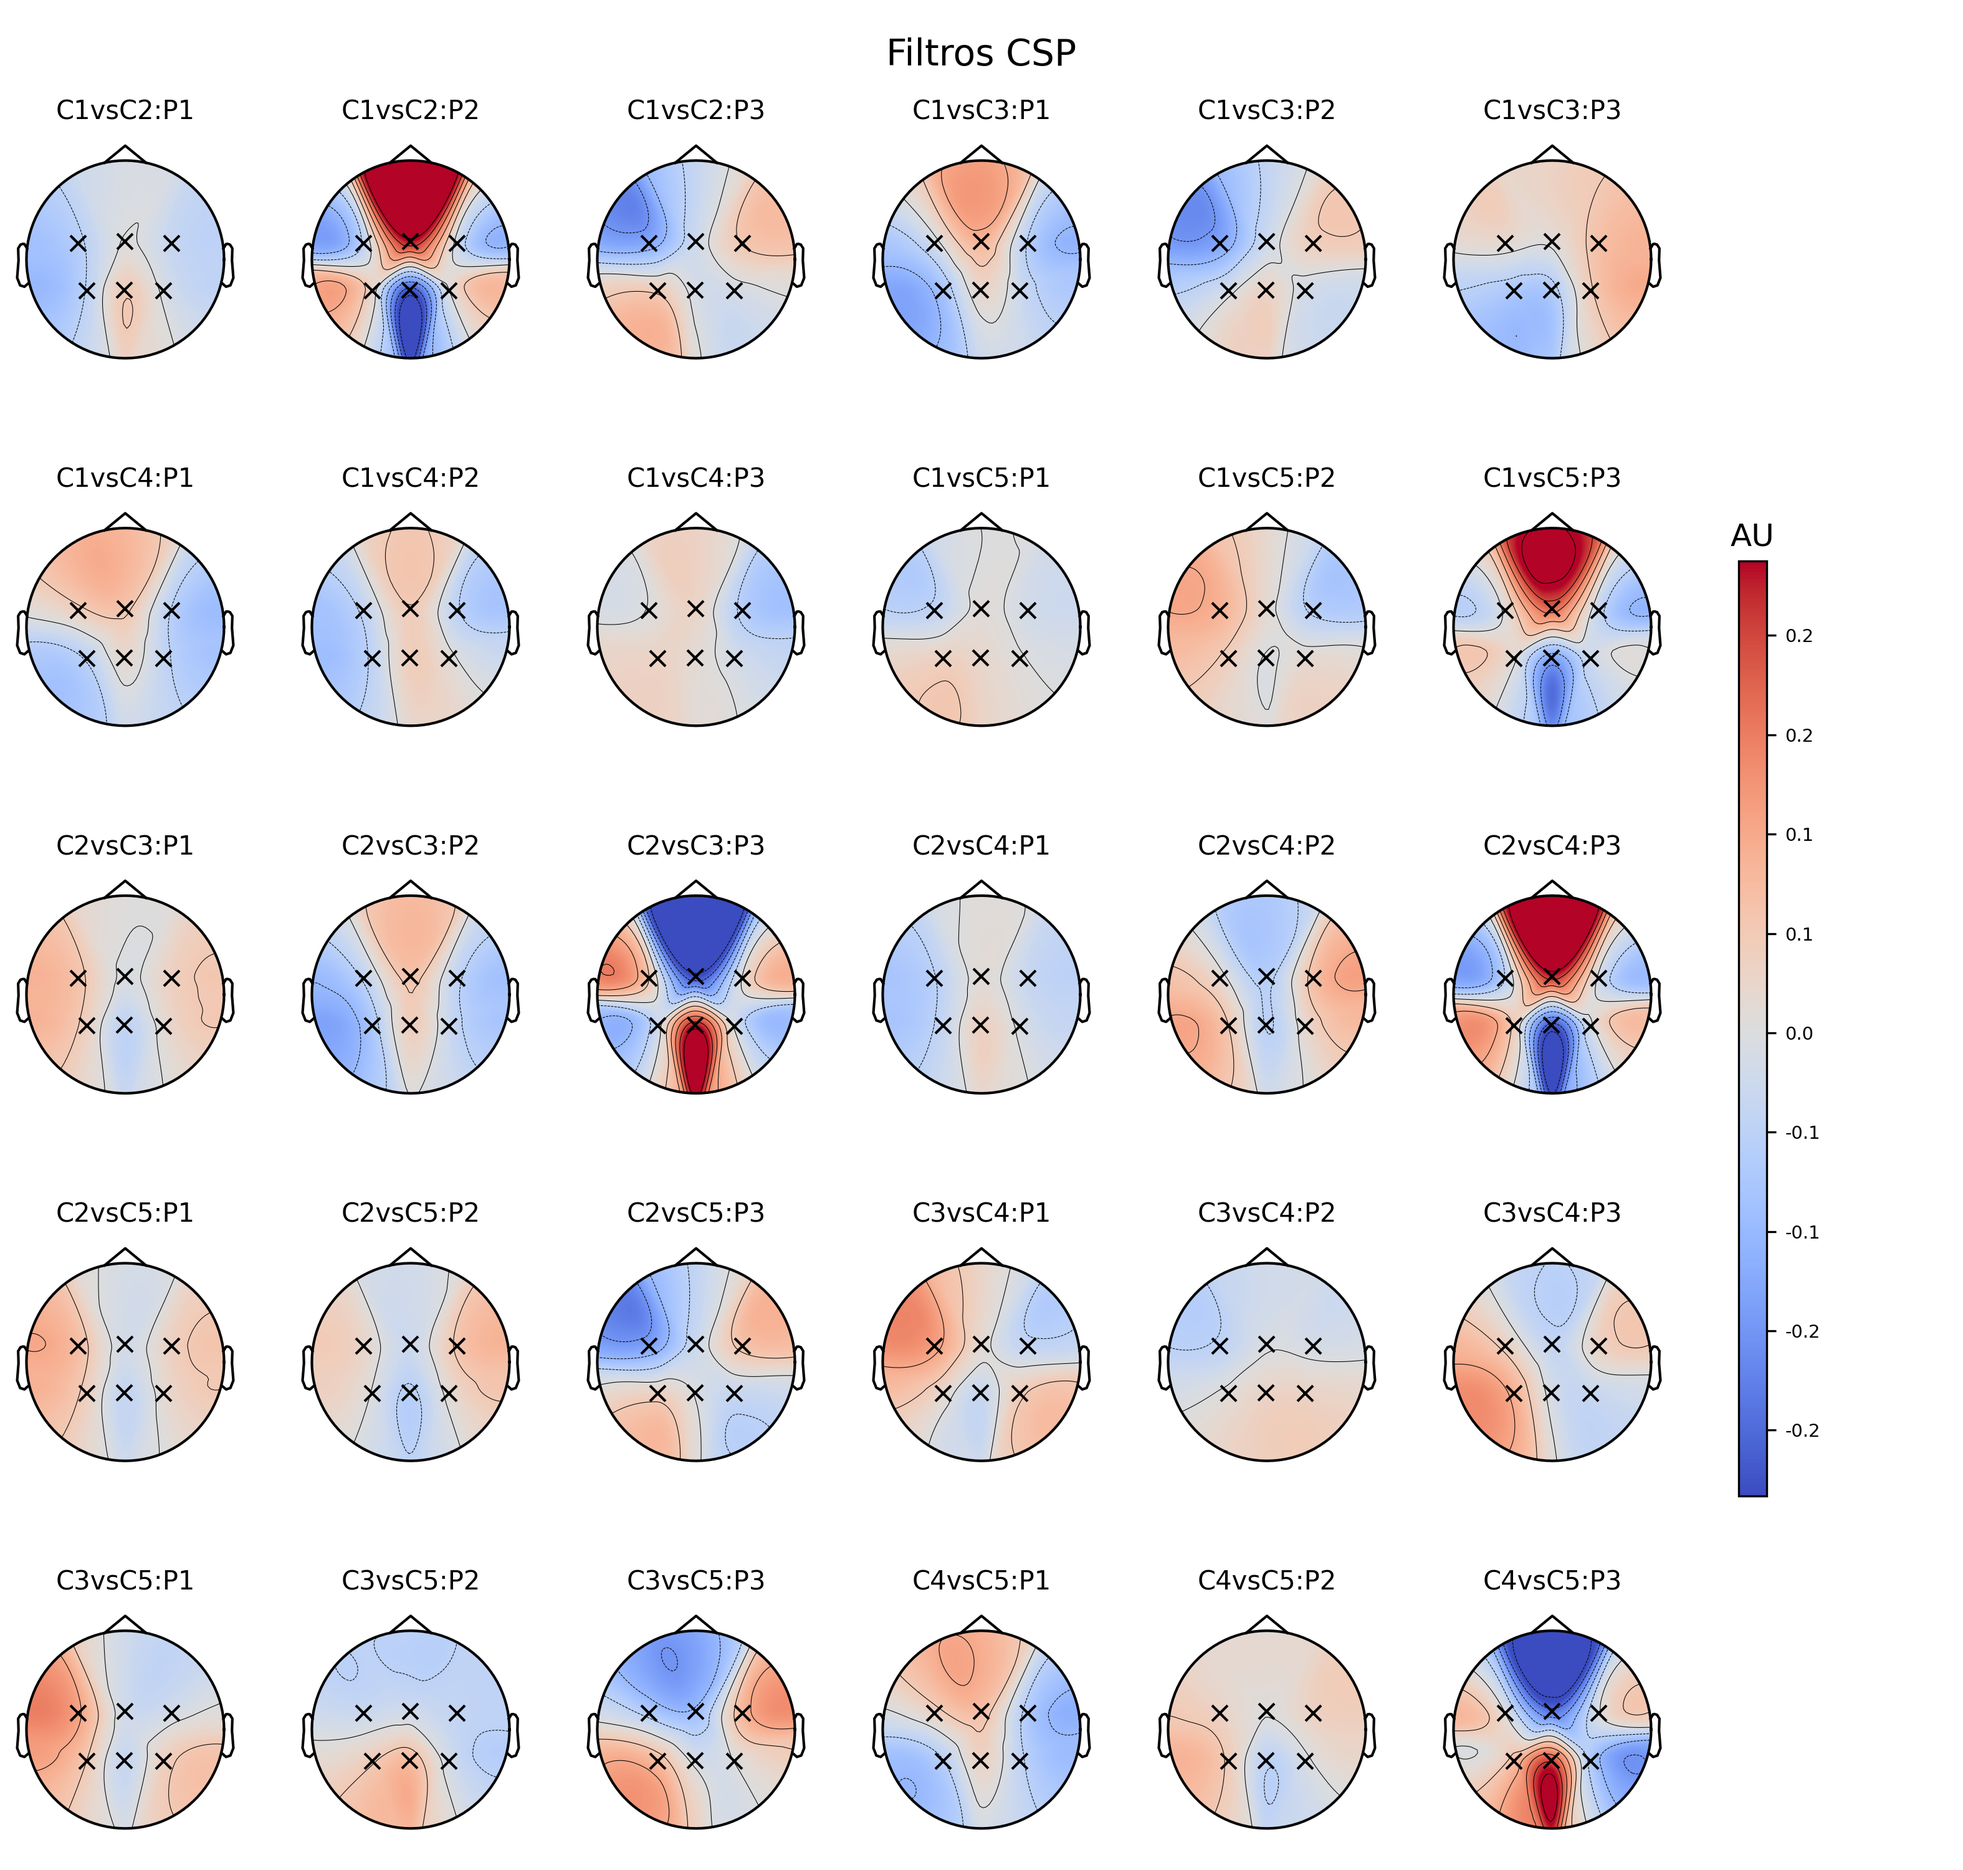
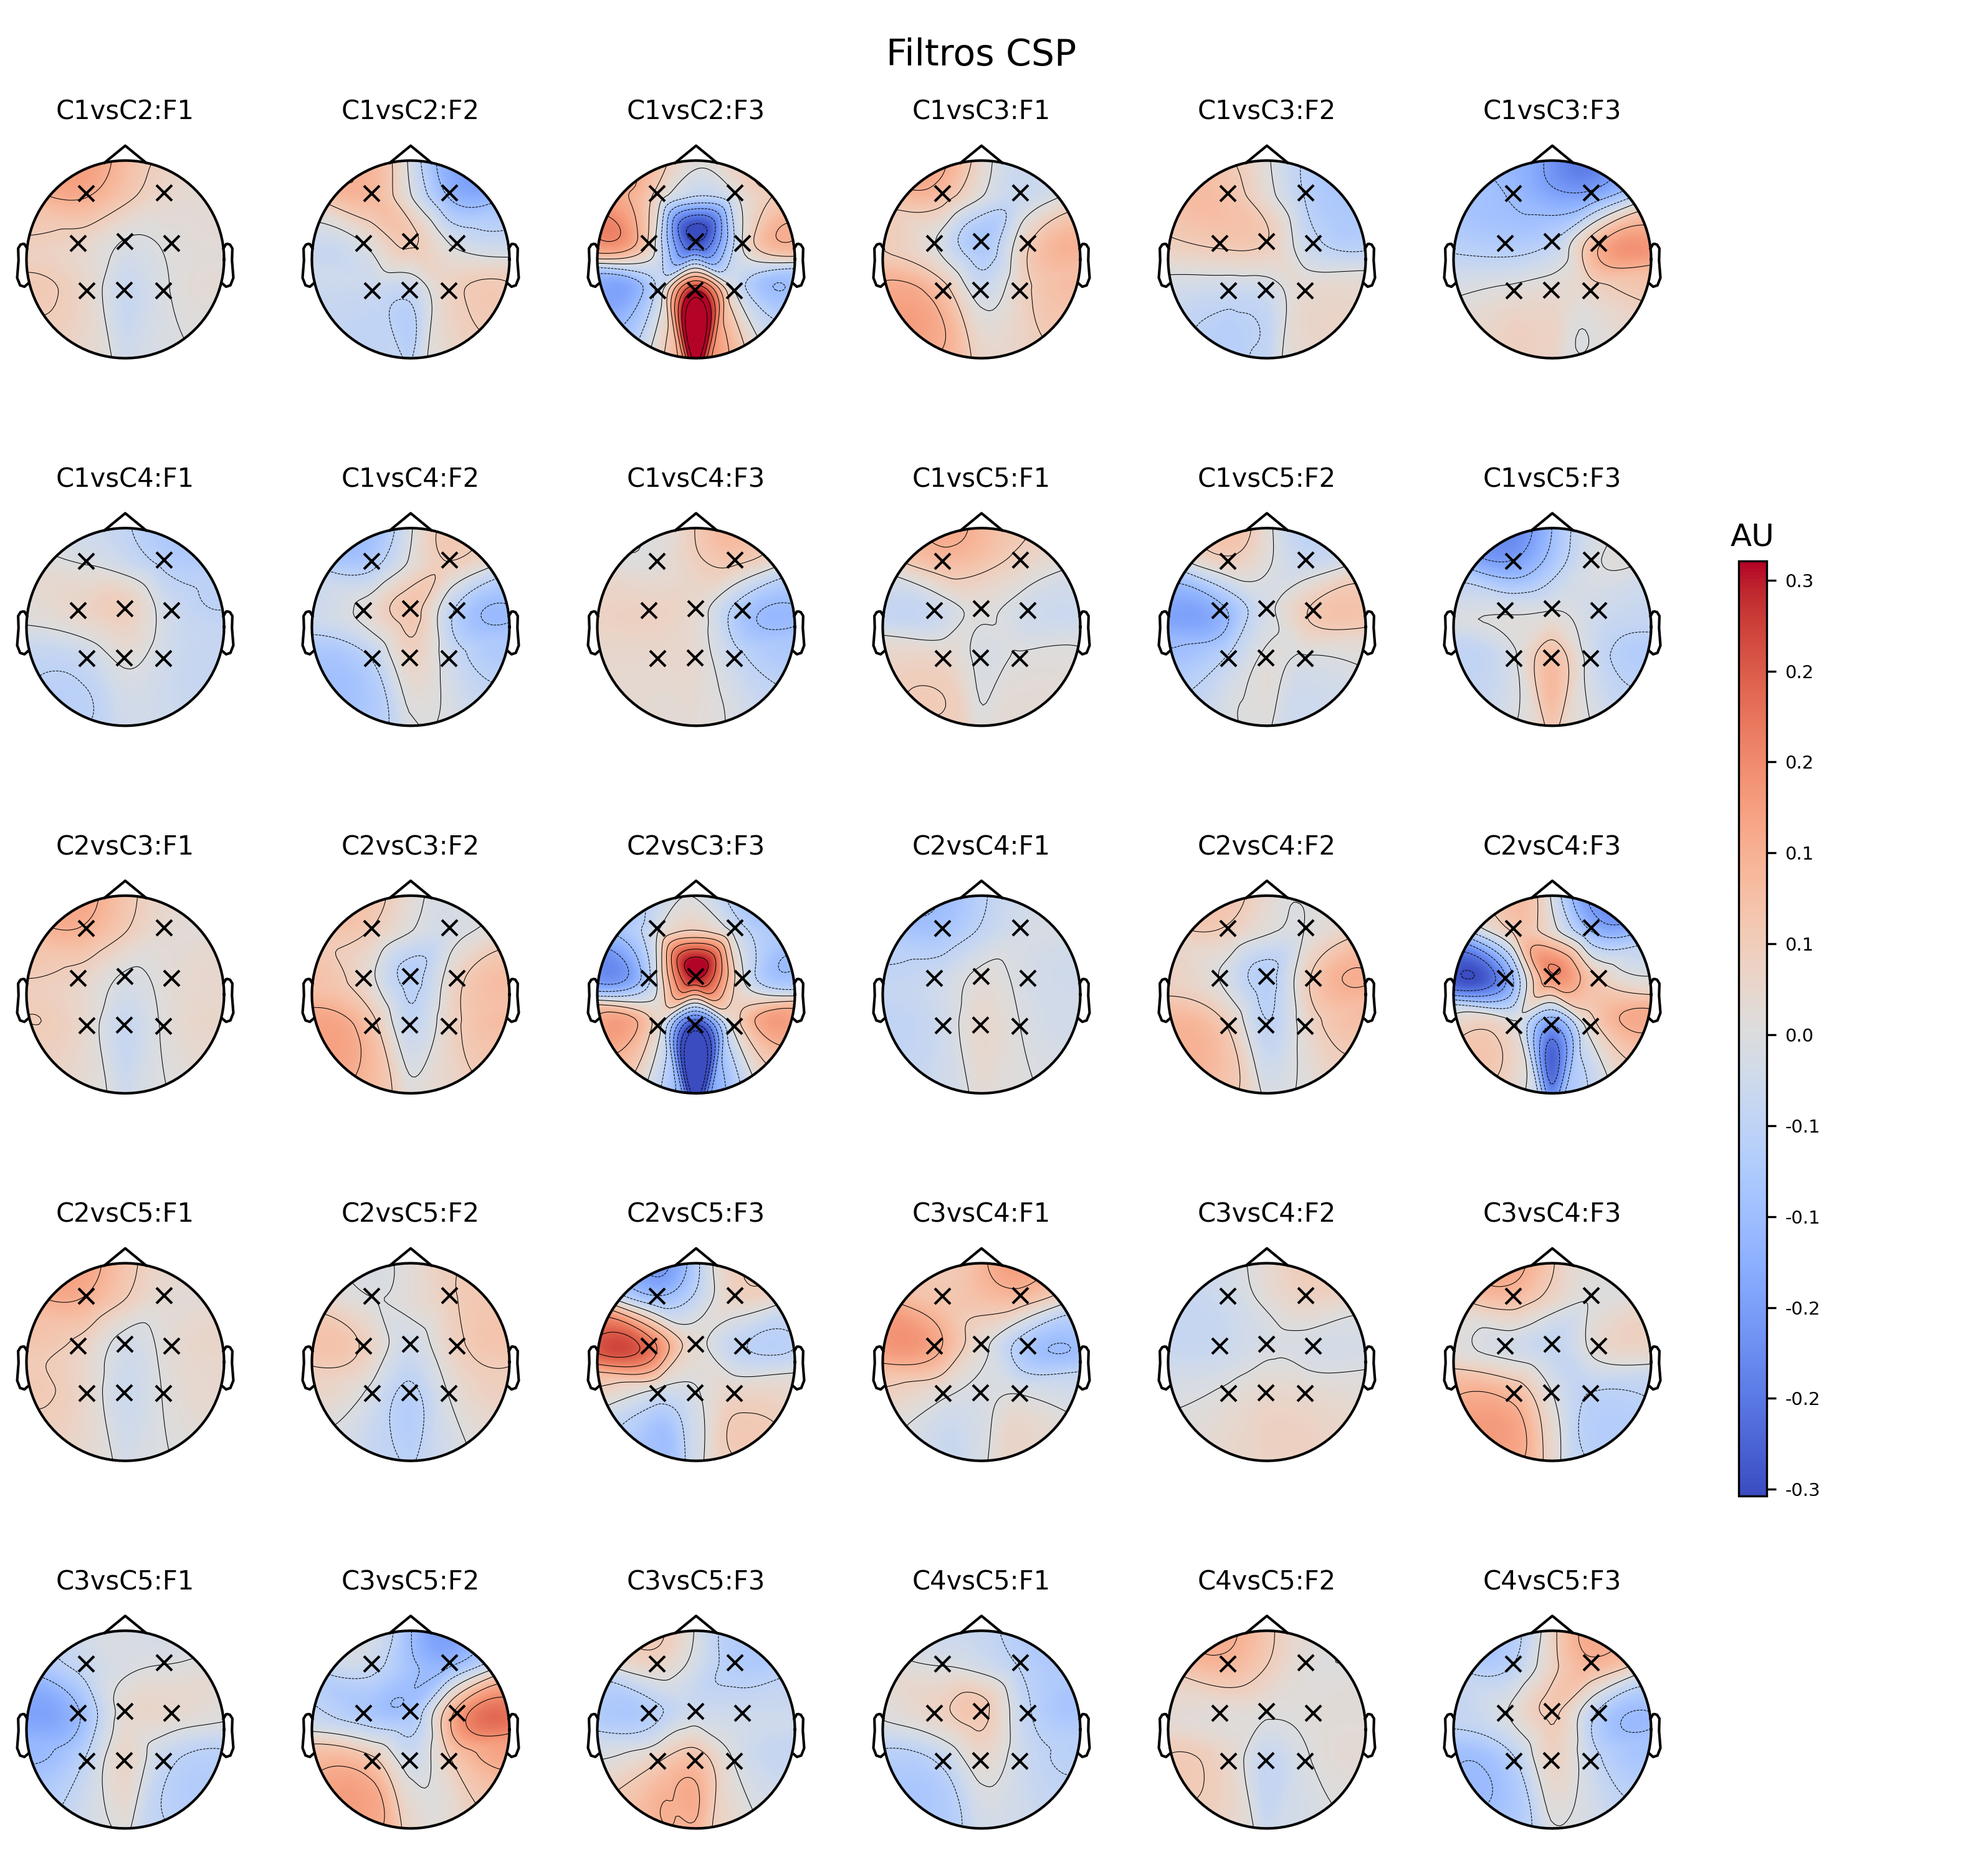
Se actualiza readme

diff --git a/Desarrollo/PythonScripts/scripts/SignalProcessor/CSPMulticlass.py b/Desarrollo/PythonScripts/scripts/SignalProcessor/CSPMulticlass.py
@@ -223,6 +223,8 @@ class CSPMulticlass(base.BaseEstimator, base.TransformerMixin):
                       save = False, filename = "patterns.png", dpi  = 300, contours = 6,
                       title = "Patrones CSP", title_size = 14, colorbar = True, show = True):
             
+            import matplotlib.pyplot as pyplot
+            
             #chequeamos self.is_fitted sino raise error
             assert self.is_fitted, "La clase CSPMulticlass no está entrenada. Debe llamar al método fit antes de graficar los patrones CSP"
             
@@ -292,23 +294,25 @@ class CSPMulticlass(base.BaseEstimator, base.TransformerMixin):
             topomap.axes[ncols].set_ylim(vlim[0],vlim[1])
 
             #agregamos título
-            plt.suptitle(title, fontsize=title_size)
+            pyplot.suptitle(title, fontsize=title_size)
 
             #guardamos figura si es necesario
             if save:
-                plt.savefig(filename, dpi=dpi)
+                pyplot.savefig(filename, dpi=dpi)
 
             #mostarmos figura si es necesario
             if show:
-                plt.show()
+                pyplot.show()
 
-            del plt
+            del pyplot
 
     def plot_filters(self, channelsName, fm, montage = 'standard_1020',scalings=1.0,
                         cbar_fmt = "%3.1f", cmap = "coolwarm",nrows="auto", ncols = "auto",
                         sensors = "kx",size = 1, cspnames = False, ynames = False,font_ylab = 10,
                         save = False, filename = "filters.png", dpi  = 300, contours = 6,
                         title = "Filtros CSP", title_size = 14, colorbar = True, show = True):
+            
+            import matplotlib.pyplot as pyplot
                 
             #chequeamos self.is_fitted sino raise error
             assert self.is_fitted, "La clase CSPMulticlass no está entrenada. Debe llamar al método fit antes de graficar los filtros CSP"
@@ -371,7 +375,7 @@ class CSPMulticlass(base.BaseEstimator, base.TransformerMixin):
                     if colorbar and j == ncols:
                         j+=1
                     for k in range(self.n_components):
-                        topomap.axes[j+k].set_title(f"{self.class_combinations[l]}:P{k+1}", fontsize=10)
+                        topomap.axes[j+k].set_title(f"{self.class_combinations[l]}:F{k+1}", fontsize=10)
                     j+=self.n_components
                     l+=1
 
@@ -379,22 +383,21 @@ class CSPMulticlass(base.BaseEstimator, base.TransformerMixin):
             topomap.axes[ncols].set_ylim(vlim[0],vlim[1])
 
             #agregamos título
-            plt.suptitle(title, fontsize=title_size)
+            pyplot.suptitle(title, fontsize=title_size)
 
             #guardamos figura si es necesario
             if save:
-                plt.savefig(filename, dpi=dpi)
+                pyplot.savefig(filename, dpi=dpi)
 
             #mostarmos figura si es necesario
             if show:
-                plt.show()
+                pyplot.show()
 
 if __name__ == "__main__":
     import numpy as np
     from SignalProcessor.Filter import Filter
     from SignalProcessor.CSPMulticlass import CSPMulticlass
-    from sklearn.model_selection import train_test_split, GridSearchCV
-    import mne
+    from sklearn.model_selection import train_test_split
     from mne.channels import make_standard_montage
     import matplotlib.pyplot as plt
     from mne.decoding import CSP
@@ -404,7 +407,7 @@ if __name__ == "__main__":
     labels = np.load("SignalProcessor/testData/labels_sujeto8_training.npy")
 
     channelsName = ["P3", "P4", "C3", "C4", "F3", "F4", "Pz", "Cz"]
-    channelsSelected = [0,1,2,3,6,7]
+    channelsSelected = [0,1,2,3,4,5,6,7]
     channelsName = [channelsName[i] for i in channelsSelected]
     trials = trials[:,channelsSelected,:]
 
@@ -431,8 +434,3 @@ if __name__ == "__main__":
     
     cspmulticlass.plot_patterns(channelsName, fm, size = 1, nrows=nrows, ncols=ncols, cspnames=True, save=True, contours = 10)
     cspmulticlass.plot_filters(channelsName, fm, size = 1, nrows=nrows, ncols=ncols, cspnames=True, save=True, contours = 10)
-
-    # info = create_info(channelsName, fm, "eeg")
-    # montage = make_standard_montage('standard_1020')
-    # info.set_montage(montage)
-    # cspmulticlass.csplist[3].plot_filters(info, scalings=1, cmap="coolwarm", contours = 10, vlim = (0.31 ,-0.31))

diff --git a/Desarrollo/PythonScripts/Readme.md b/Desarrollo/PythonScripts/Readme.md
@@ -131,7 +131,7 @@ Las siguientes figuras muestran ejemplos de patrones y filtros para el caso de e
 
 
 *Filtros*
-![Patrones obtenidos por el CSPMulticlass](/Desarrollo/PythonScripts/figures/filters.png)
+![Patrones obtenidos por el CSPMulticlass](/Desarrollo/PythonScripts/figures/filters.png|width=100)
 
 
 ### Clasificación
